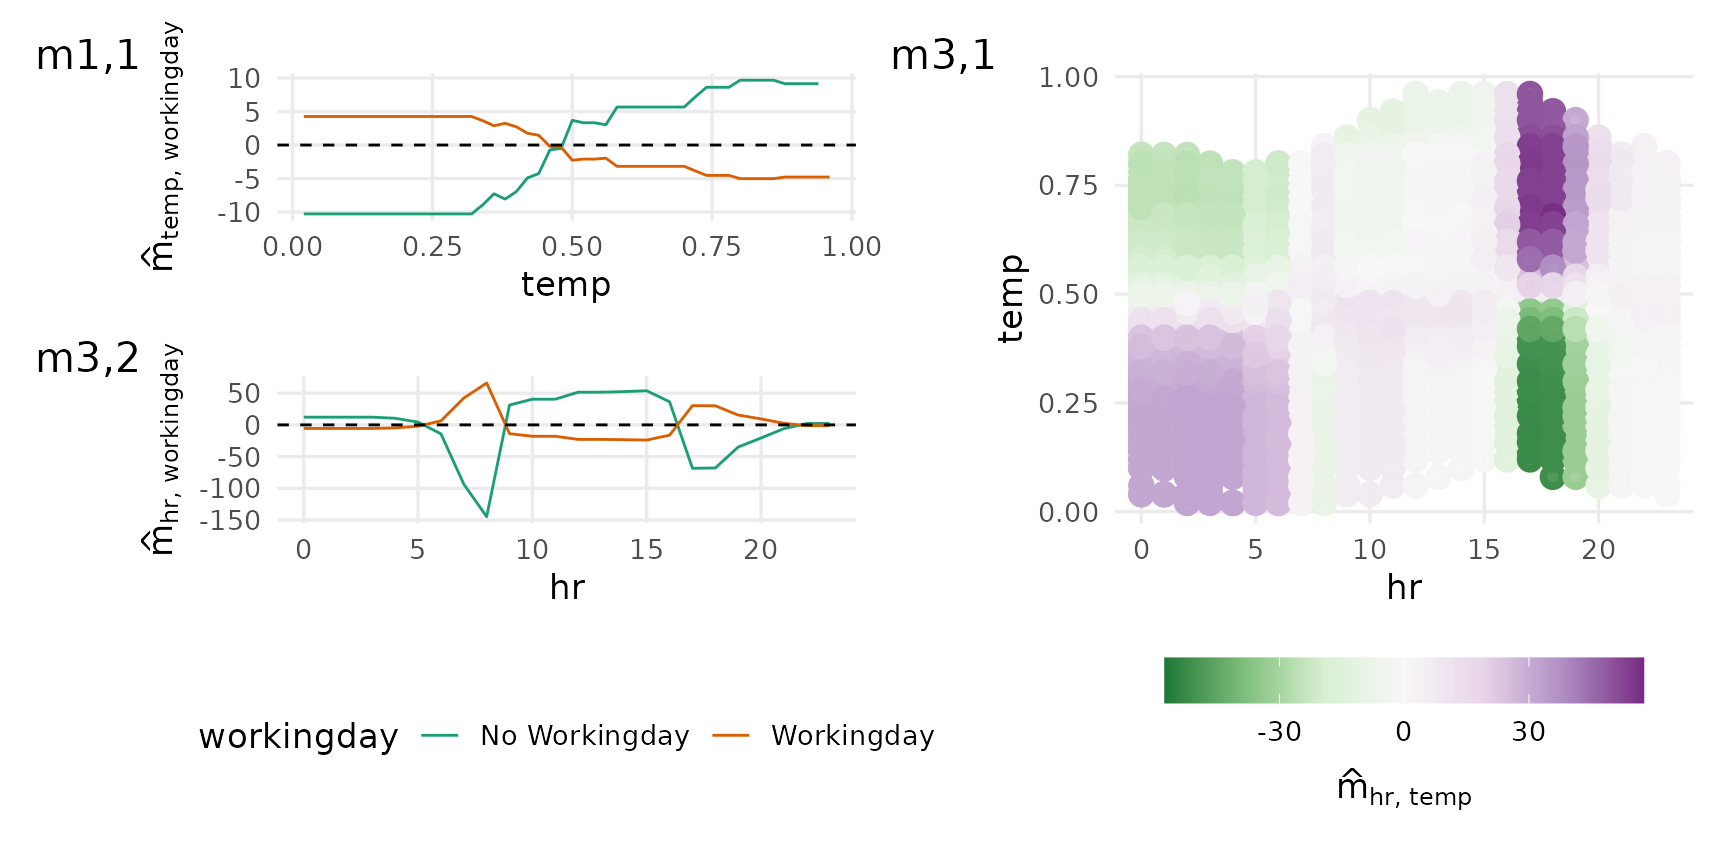
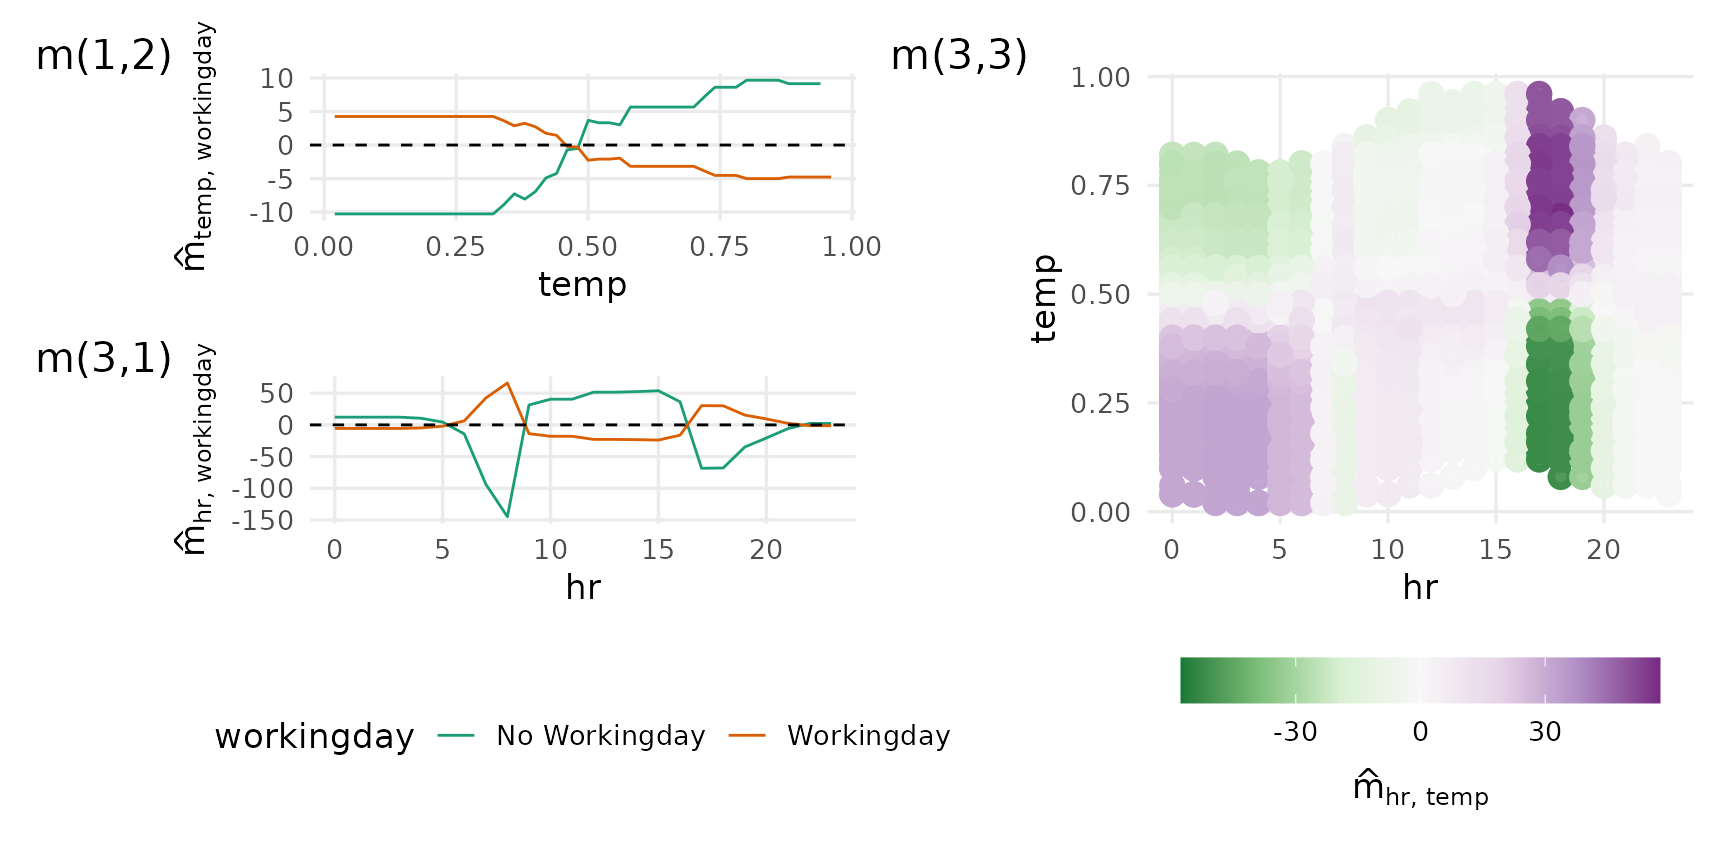
Deploying to gh-pages from @ PlantedML/randomPlantedForest@b62a94086f1e67b8e6278f3e28243e5627c7a8a0 🚀

diff --git a/articles/Bikesharing-Decomposition-Example.html b/articles/Bikesharing-Decomposition-Example.html
@@ -248,10 +248,10 @@ which we need for later visualization.</p>
 <div class="sourceCode" id="cb6"><pre class="downlit sourceCode r">
 <code class="sourceCode R"><span><span class="va">t2</span> <span class="op">&lt;-</span> <span class="fu"><a href="https://rdrr.io/r/base/Sys.time.html" class="external-link">Sys.time</a></span><span class="op">(</span><span class="op">)</span></span>
 <span></span>
-<span><span class="va">took</span> <span class="op">&lt;-</span> <span class="fu"><a href="https://rdrr.io/r/base/Round.html" class="external-link">round</a></span><span class="op">(</span><span class="fu"><a href="https://rdrr.io/r/base/numeric.html" class="external-link">as.numeric</a></span><span class="op">(</span><span class="fu"><a href="https://rdrr.io/r/base/difftime.html" class="external-link">difftime</a></span><span class="op">(</span><span class="va">t2</span>, <span class="va">t1</span>, units <span class="op">=</span> <span class="st">"secs"</span><span class="op">)</span><span class="op">)</span><span class="op">/</span><span class="fl">10</span><span class="op">)</span><span class="op">*</span><span class="fl">10</span></span></code></pre></div>
+<span><span class="va">took</span> <span class="op">&lt;-</span> <span class="fu"><a href="https://rdrr.io/r/base/Round.html" class="external-link">ceiling</a></span><span class="op">(</span><span class="fu"><a href="https://rdrr.io/r/base/numeric.html" class="external-link">as.numeric</a></span><span class="op">(</span><span class="fu"><a href="https://rdrr.io/r/base/difftime.html" class="external-link">difftime</a></span><span class="op">(</span><span class="va">t2</span>, <span class="va">t1</span>, units <span class="op">=</span> <span class="st">"secs"</span><span class="op">)</span><span class="op">)</span><span class="op">/</span><span class="fl">10</span><span class="op">)</span><span class="op">*</span><span class="fl">10</span></span></code></pre></div>
 <p>Please note that fitting the model, purification, and the extraction
-of the components may toke some time, depending on available resources
-and the size of the data. For example, the above steps took around 20
+of the components may take some time, depending on available resources
+and the size of the data. For example, the above steps took around 30
 seconds to complete on GitHub Actions.</p>
 </div>
 <div class="section level2">
@@ -262,7 +262,7 @@ seconds to complete on GitHub Actions.</p>
 <span>  <span class="fu"><a href="../reference/plot_components.html">plot_main_effect</a></span><span class="op">(</span><span class="va">components</span>, <span class="st">"hr"</span><span class="op">)</span> <span class="op">+</span></span>
 <span>  <span class="fu"><a href="../reference/plot_components.html">plot_main_effect</a></span><span class="op">(</span><span class="va">components</span>, <span class="st">"workingday"</span><span class="op">)</span></span>
 <span></span>
-<span><span class="va">p_main</span></span></code></pre></div>
+<span><span class="va">p_main</span> <span class="op">+</span> <span class="fu"><a href="https://patchwork.data-imaginist.com/reference/plot_layout.html" class="external-link">plot_layout</a></span><span class="op">(</span>widths <span class="op">=</span> <span class="fu"><a href="https://rdrr.io/r/base/c.html" class="external-link">c</a></span><span class="op">(</span><span class="fl">.3</span>, <span class="fl">.3</span>, <span class="fl">.4</span><span class="op">)</span><span class="op">)</span></span></code></pre></div>
 <p><img src="Bikesharing-Decomposition-Example_files/figure-html/main-effects-1.png" width="864" style="display: block; margin: auto;"></p>
 </div>
 <div class="section level2">
@@ -278,7 +278,7 @@ seconds to complete on GitHub Actions.</p>
 <span>  <span class="fu"><a href="../reference/plot_components.html">plot_twoway_effects</a></span><span class="op">(</span><span class="va">components</span>, <span class="fu"><a href="https://rdrr.io/r/base/c.html" class="external-link">c</a></span><span class="op">(</span><span class="st">"hr"</span>, <span class="st">"temp"</span><span class="op">)</span><span class="op">)</span></span>
 <span></span>
 <span><span class="va">p_2way</span> <span class="op">&lt;-</span> <span class="va">p_2way</span> <span class="op">+</span> </span>
-<span>  <span class="fu"><a href="https://patchwork.data-imaginist.com/reference/plot_annotation.html" class="external-link">plot_annotation</a></span><span class="op">(</span>tag_levels <span class="op">=</span> <span class="fu"><a href="https://rdrr.io/r/base/list.html" class="external-link">list</a></span><span class="op">(</span><span class="fu"><a href="https://rdrr.io/r/base/c.html" class="external-link">c</a></span><span class="op">(</span><span class="st">"1,1"</span>, <span class="st">"3,2"</span>, <span class="st">"3,1"</span><span class="op">)</span><span class="op">)</span>, tag_prefix <span class="op">=</span> <span class="st">"m"</span><span class="op">)</span></span>
+<span>  <span class="fu"><a href="https://patchwork.data-imaginist.com/reference/plot_annotation.html" class="external-link">plot_annotation</a></span><span class="op">(</span>tag_levels <span class="op">=</span> <span class="fu"><a href="https://rdrr.io/r/base/list.html" class="external-link">list</a></span><span class="op">(</span><span class="fu"><a href="https://rdrr.io/r/base/c.html" class="external-link">c</a></span><span class="op">(</span><span class="st">"1,2"</span>, <span class="st">"3,1"</span>, <span class="st">"3,3"</span><span class="op">)</span><span class="op">)</span>, tag_prefix <span class="op">=</span> <span class="st">"m("</span>, tag_suffix <span class="op">=</span> <span class="st">")"</span><span class="op">)</span></span>
 <span></span>
 <span><span class="va">p_2way</span></span></code></pre></div>
 <p><img src="Bikesharing-Decomposition-Example_files/figure-html/twoway-effects-1.png" width="864" style="display: block; margin: auto;"></p>
@@ -311,7 +311,7 @@ then collecting the plots with <code><a href="https://patchwork.data-imaginist.c
 <code class="sourceCode R"><span><span class="fu"><a href="https://patchwork.data-imaginist.com/reference/wrap_plots.html" class="external-link">wrap_plots</a></span><span class="op">(</span><span class="fu"><a href="https://rdrr.io/r/base/lapply.html" class="external-link">lapply</a></span><span class="op">(</span><span class="va">vars</span>, <span class="va">plot_main_effect</span>, components <span class="op">=</span> <span class="va">components</span><span class="op">)</span><span class="op">)</span></span></code></pre></div>
 <p><img src="Bikesharing-Decomposition-Example_files/figure-html/unnamed-chunk-4-1.png" width="864" style="display: block; margin: auto;"></p>
 <p>From here we use <code>autoplot</code> for convenience. Internally it
-just passed its arguments on to the specialized <code>plot_*</code>
+just passes its arguments on to the specialized <code>plot_*</code>
 functions, depending on the number of predictors supplied.</p>
 <div class="sourceCode" id="cb12"><pre class="downlit sourceCode r">
 <code class="sourceCode R"><span><span class="fu"><a href="https://ggplot2.tidyverse.org/reference/autoplot.html" class="external-link">autoplot</a></span><span class="op">(</span><span class="va">components</span>, <span class="fu"><a href="https://rdrr.io/r/base/c.html" class="external-link">c</a></span><span class="op">(</span><span class="st">"season"</span>, <span class="st">"workingday"</span><span class="op">)</span><span class="op">)</span></span></code></pre></div>
@@ -325,20 +325,23 @@ functions, depending on the number of predictors supplied.</p>
 <div class="sourceCode" id="cb15"><pre class="downlit sourceCode r">
 <code class="sourceCode R"><span><span class="fu"><a href="https://ggplot2.tidyverse.org/reference/autoplot.html" class="external-link">autoplot</a></span><span class="op">(</span><span class="va">components</span>, <span class="fu"><a href="https://rdrr.io/r/base/c.html" class="external-link">c</a></span><span class="op">(</span><span class="st">"weathersit"</span>, <span class="st">"temp"</span><span class="op">)</span><span class="op">)</span></span></code></pre></div>
 <p><img src="Bikesharing-Decomposition-Example_files/figure-html/unnamed-chunk-5-4.png" width="864" style="display: block; margin: auto;"></p>
+<div class="sourceCode" id="cb16"><pre class="downlit sourceCode r">
+<code class="sourceCode R"><span><span class="fu"><a href="https://ggplot2.tidyverse.org/reference/autoplot.html" class="external-link">autoplot</a></span><span class="op">(</span><span class="va">components</span>, <span class="fu"><a href="https://rdrr.io/r/base/c.html" class="external-link">c</a></span><span class="op">(</span><span class="st">"hum"</span>, <span class="st">"temp"</span><span class="op">)</span><span class="op">)</span></span></code></pre></div>
+<p><img src="Bikesharing-Decomposition-Example_files/figure-html/unnamed-chunk-5-5.png" width="864" style="display: block; margin: auto;"></p>
 <p>3rd degree interactions can be tricky, if they have any effect at
 all.</p>
-<div class="sourceCode" id="cb16"><pre class="downlit sourceCode r">
+<div class="sourceCode" id="cb17"><pre class="downlit sourceCode r">
 <code class="sourceCode R"><span><span class="fu"><a href="https://ggplot2.tidyverse.org/reference/autoplot.html" class="external-link">autoplot</a></span><span class="op">(</span><span class="va">components</span>, <span class="fu"><a href="https://rdrr.io/r/base/c.html" class="external-link">c</a></span><span class="op">(</span><span class="st">"season"</span>, <span class="st">"hr"</span>, <span class="st">"weathersit"</span><span class="op">)</span><span class="op">)</span></span></code></pre></div>
 <p><img src="Bikesharing-Decomposition-Example_files/figure-html/unnamed-chunk-6-1.png" width="864" style="display: block; margin: auto;"></p>
-<div class="sourceCode" id="cb17"><pre class="downlit sourceCode r">
-<code class="sourceCode R"><span><span class="fu"><a href="https://ggplot2.tidyverse.org/reference/autoplot.html" class="external-link">autoplot</a></span><span class="op">(</span><span class="va">components</span>, <span class="fu"><a href="https://rdrr.io/r/base/c.html" class="external-link">c</a></span><span class="op">(</span><span class="st">"workingday"</span>, <span class="st">"temp"</span>, <span class="st">"season"</span><span class="op">)</span><span class="op">)</span></span></code></pre></div>
-<p><img src="Bikesharing-Decomposition-Example_files/figure-html/unnamed-chunk-6-2.png" width="864" style="display: block; margin: auto;"></p>
 <div class="sourceCode" id="cb18"><pre class="downlit sourceCode r">
+<code class="sourceCode R"><span><span class="fu"><a href="https://ggplot2.tidyverse.org/reference/autoplot.html" class="external-link">autoplot</a></span><span class="op">(</span><span class="va">components</span>, <span class="fu"><a href="https://rdrr.io/r/base/c.html" class="external-link">c</a></span><span class="op">(</span><span class="st">"workingday"</span>, <span class="st">"hr"</span>, <span class="st">"season"</span><span class="op">)</span><span class="op">)</span></span></code></pre></div>
+<p><img src="Bikesharing-Decomposition-Example_files/figure-html/unnamed-chunk-6-2.png" width="864" style="display: block; margin: auto;"></p>
+<div class="sourceCode" id="cb19"><pre class="downlit sourceCode r">
 <code class="sourceCode R"><span></span>
 <span><span class="co"># Hard to interpret, likely spurious</span></span>
 <span><span class="fu"><a href="https://ggplot2.tidyverse.org/reference/autoplot.html" class="external-link">autoplot</a></span><span class="op">(</span><span class="va">components</span>, <span class="fu"><a href="https://rdrr.io/r/base/c.html" class="external-link">c</a></span><span class="op">(</span><span class="st">"workingday"</span>, <span class="st">"hr"</span>, <span class="st">"weathersit"</span><span class="op">)</span><span class="op">)</span></span></code></pre></div>
 <p><img src="Bikesharing-Decomposition-Example_files/figure-html/unnamed-chunk-6-3.png" width="864" style="display: block; margin: auto;"></p>
-<div class="sourceCode" id="cb19"><pre class="downlit sourceCode r">
+<div class="sourceCode" id="cb20"><pre class="downlit sourceCode r">
 <code class="sourceCode R"><span></span>
 <span><span class="co"># zero effect</span></span>
 <span><span class="fu"><a href="https://ggplot2.tidyverse.org/reference/autoplot.html" class="external-link">autoplot</a></span><span class="op">(</span><span class="va">components</span>, <span class="fu"><a href="https://rdrr.io/r/base/c.html" class="external-link">c</a></span><span class="op">(</span><span class="st">"weathersit"</span>, <span class="st">"season"</span>, <span class="st">"workingday"</span><span class="op">)</span><span class="op">)</span></span></code></pre></div>

diff --git a/articles/test/Regression-Test-oldrpf.html b/articles/test/Regression-Test-oldrpf.html
@@ -71,7 +71,7 @@
   <main id="main" class="col-md-9"><div class="page-header">
       <img src="" class="logo" alt=""><h1>Regression Test: oldrpf</h1>
             
-            <h4 data-toc-skip class="date">2023-02-21 18:40:40 UTC</h4>
+            <h4 data-toc-skip class="date">2023-02-21 20:34:48 UTC</h4>
       
       <small class="dont-index">Source: <a href="https://github.com/PlantedML/randomPlantedForest/blob/HEAD/vignettes/test/Regression-Test-oldrpf.Rmd" class="external-link"><code>vignettes/test/Regression-Test-oldrpf.Rmd</code></a></small>
       <div class="d-none name"><code>Regression-Test-oldrpf.Rmd</code></div>
@@ -99,9 +99,9 @@ referred to as <code>oldrpf</code>.</p>
 <tbody><tr class="odd">
 <td align="left">regr</td>
 <td align="left">L2</td>
-<td align="right">0.24466</td>
-<td align="right">0.19687</td>
-<td align="right">0.10782</td>
+<td align="right">0.18592</td>
+<td align="right">0.19588</td>
+<td align="right">0.10142</td>
 </tr></tbody>
 </table>
 </div>
@@ -123,9 +123,9 @@ referred to as <code>oldrpf</code>.</p>
 <tbody><tr class="odd">
 <td align="left">classif</td>
 <td align="left">L1</td>
-<td align="right">0.08454</td>
-<td align="right">0.08031</td>
-<td align="right">0.00523</td>
+<td align="right">0.08307</td>
+<td align="right">0.07971</td>
+<td align="right">0.00462</td>
 </tr></tbody>
 </table>
 </div>
@@ -144,9 +144,9 @@ referred to as <code>oldrpf</code>.</p>
 <tbody><tr class="odd">
 <td align="left">classif</td>
 <td align="left">L2</td>
-<td align="right">0.08573</td>
-<td align="right">0.08581</td>
-<td align="right">0.0031</td>
+<td align="right">0.08856</td>
+<td align="right">0.08532</td>
+<td align="right">0.00524</td>
 </tr></tbody>
 </table>
 </div>
@@ -165,9 +165,9 @@ referred to as <code>oldrpf</code>.</p>
 <tbody><tr class="odd">
 <td align="left">classif</td>
 <td align="left">logit</td>
-<td align="right">0.08624</td>
-<td align="right">0.08257</td>
-<td align="right">0.00333</td>
+<td align="right">0.08506</td>
+<td align="right">0.08803</td>
+<td align="right">0.00329</td>
 </tr></tbody>
 </table>
 </div>
@@ -186,9 +186,9 @@ referred to as <code>oldrpf</code>.</p>
 <tbody><tr class="odd">
 <td align="left">classif</td>
 <td align="left">exponential</td>
-<td align="right">0.07655</td>
-<td align="right">0.07601</td>
-<td align="right">0.00335</td>
+<td align="right">0.07854</td>
+<td align="right">0.07927</td>
+<td align="right">0.0049</td>
 </tr></tbody>
 </table>
 </div>
@@ -208,37 +208,37 @@ referred to as <code>oldrpf</code>.</p>
 <tr class="odd">
 <td align="left">regr</td>
 <td align="left">L2</td>
-<td align="right">0.24466</td>
-<td align="right">0.19687</td>
-<td align="right">0.10782</td>
+<td align="right">0.18592</td>
+<td align="right">0.19588</td>
+<td align="right">0.10142</td>
 </tr>
 <tr class="even">
 <td align="left">classif</td>
 <td align="left">L1</td>
-<td align="right">0.08454</td>
-<td align="right">0.08031</td>
-<td align="right">0.00523</td>
+<td align="right">0.08307</td>
+<td align="right">0.07971</td>
+<td align="right">0.00462</td>
 </tr>
 <tr class="odd">
 <td align="left">classif</td>
 <td align="left">L2</td>
-<td align="right">0.08573</td>
-<td align="right">0.08581</td>
-<td align="right">0.00310</td>
+<td align="right">0.08856</td>
+<td align="right">0.08532</td>
+<td align="right">0.00524</td>
 </tr>
 <tr class="even">
 <td align="left">classif</td>
 <td align="left">logit</td>
-<td align="right">0.08624</td>
-<td align="right">0.08257</td>
-<td align="right">0.00333</td>
+<td align="right">0.08506</td>
+<td align="right">0.08803</td>
+<td align="right">0.00329</td>
 </tr>
 <tr class="odd">
 <td align="left">classif</td>
 <td align="left">exponential</td>
-<td align="right">0.07655</td>
-<td align="right">0.07601</td>
-<td align="right">0.00335</td>
+<td align="right">0.07854</td>
+<td align="right">0.07927</td>
+<td align="right">0.00490</td>
 </tr>
 </tbody>
 </table>
